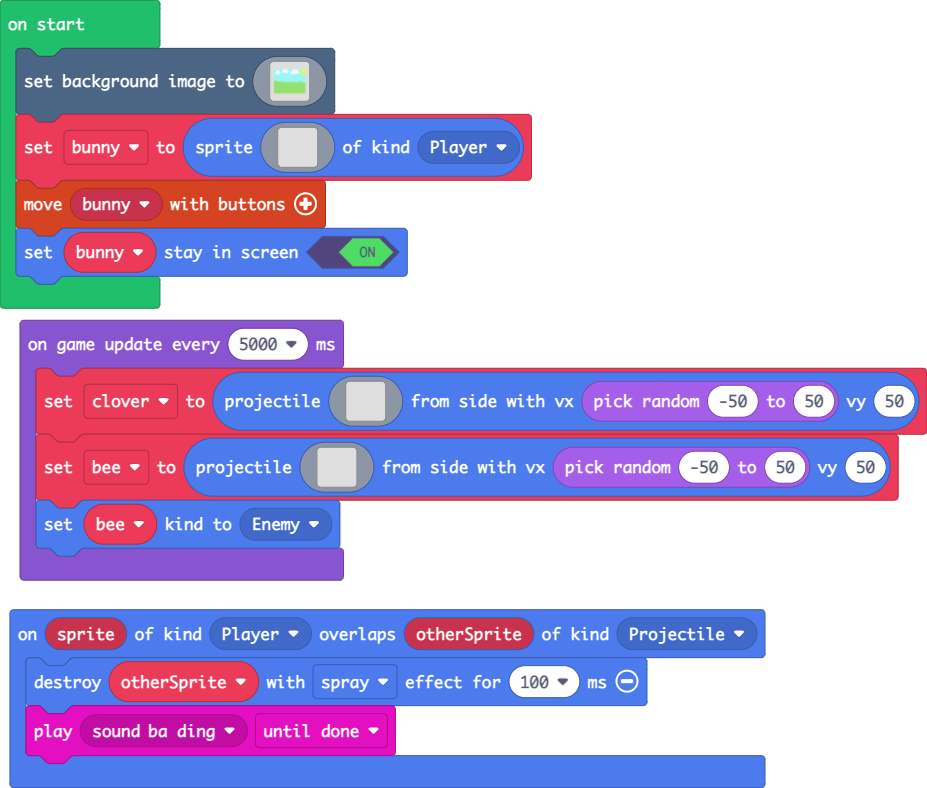
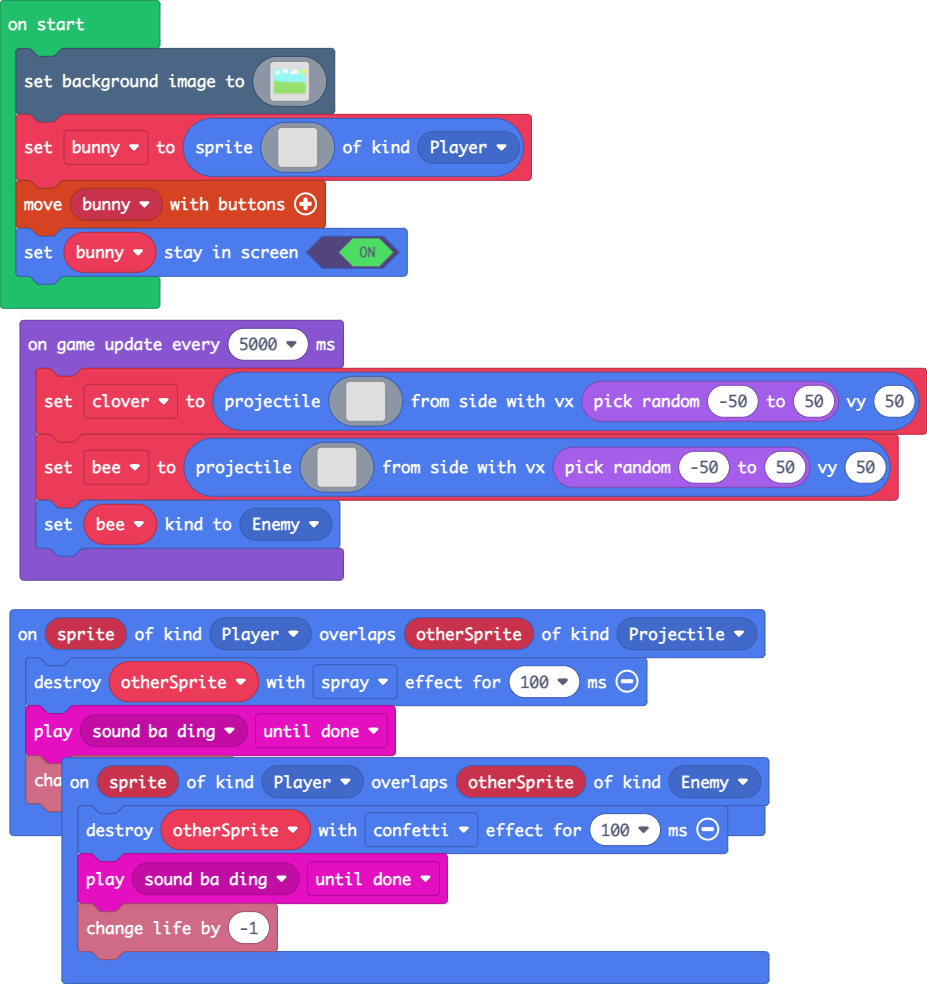
Update main.blocks, main.ts

diff --git a/main.ts b/main.ts
@@ -1,6 +1,12 @@
 sprites.onOverlap(SpriteKind.Player, SpriteKind.Projectile, function (sprite, otherSprite) {
     sprites.destroy(otherSprite, effects.spray, 100)
     music.play(music.melodyPlayable(music.baDing), music.PlaybackMode.UntilDone)
+    info.changeScoreBy(1)
+})
+sprites.onOverlap(SpriteKind.Player, SpriteKind.Enemy, function (sprite, otherSprite) {
+    sprites.destroy(otherSprite, effects.confetti, 100)
+    music.play(music.melodyPlayable(music.baDing), music.PlaybackMode.UntilDone)
+    info.changeLifeBy(-1)
 })
 let bee: Sprite = null
 let clover: Sprite = null
